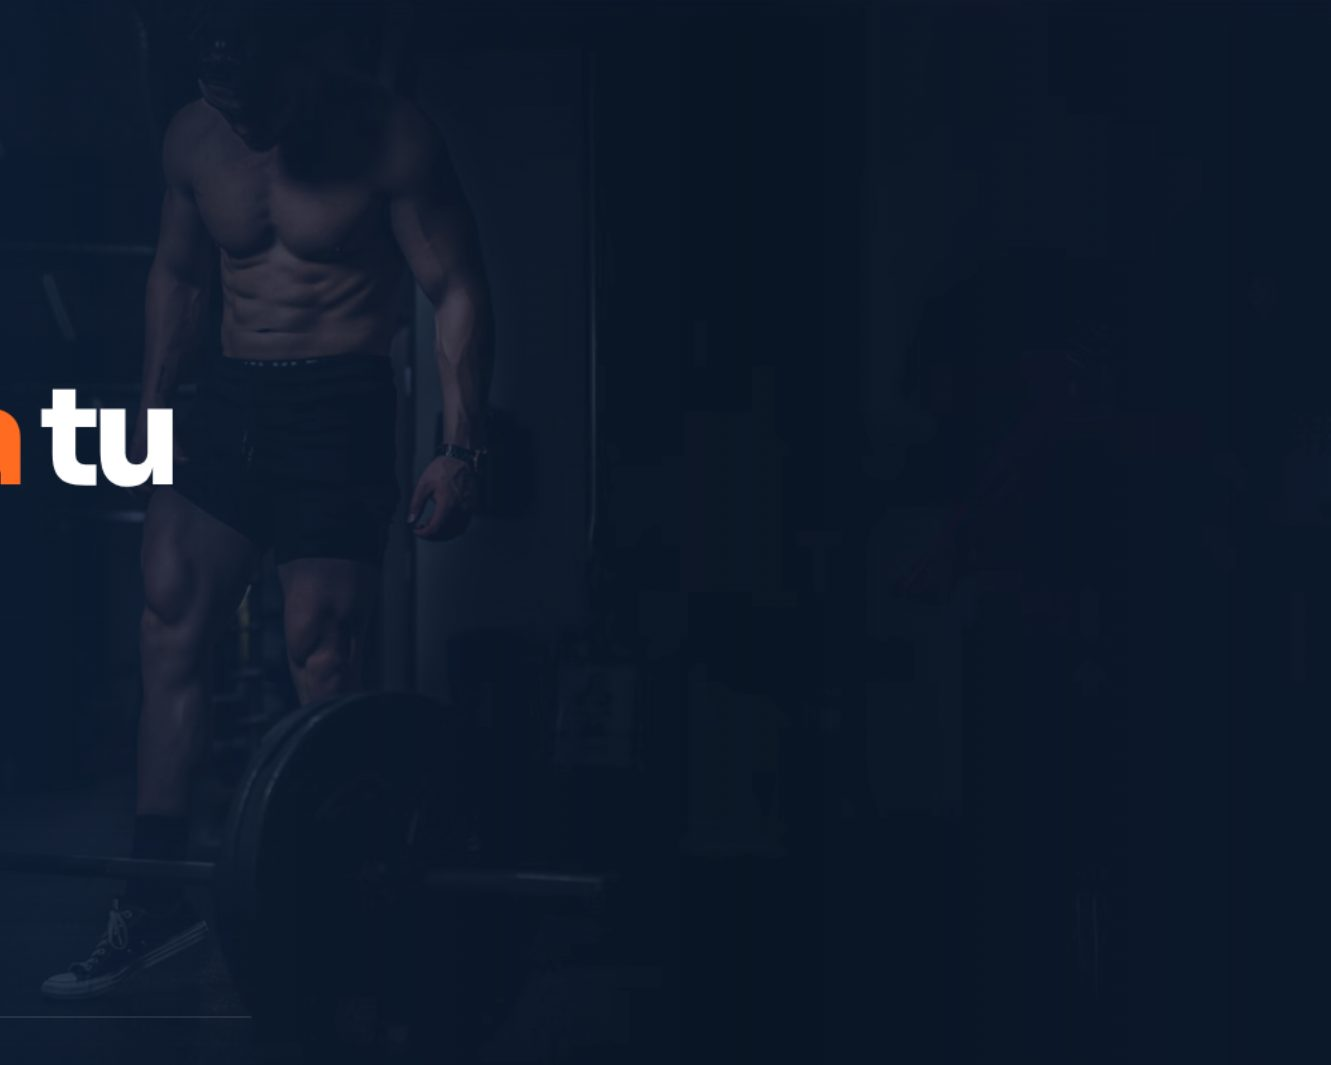
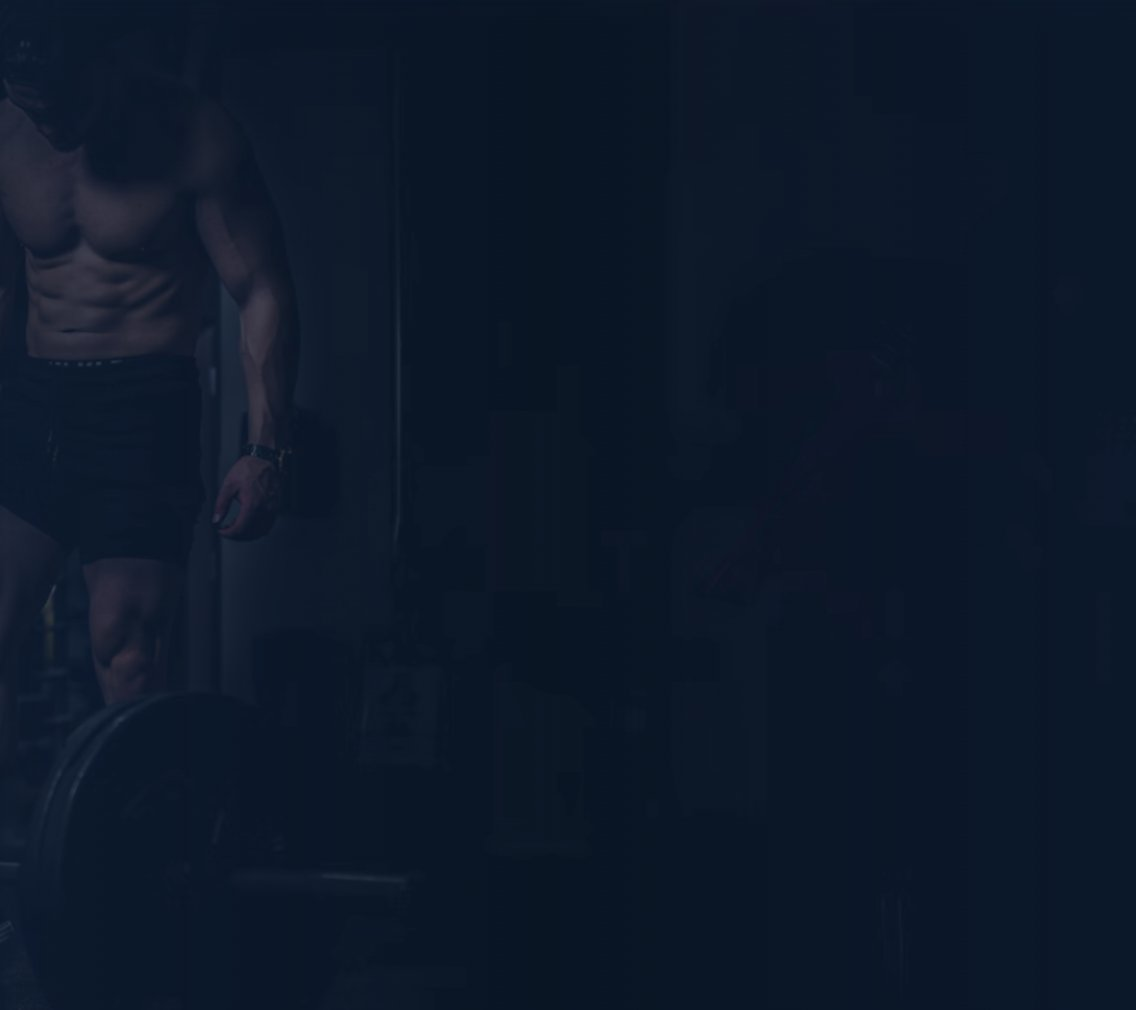
Portada: la foto del héroe se ve a la derecha como en el diseño (recorte sin texto)

diff --git a/src/pages/HomePage.tsx b/src/pages/HomePage.tsx
@@ -41,8 +41,8 @@ export default function HomePage() {
     <>
       {/* a. Portada */}
       <section className="relative overflow-hidden bg-navy-900 text-white">
-        <img src="/img/hero.jpg" alt="" className="absolute inset-0 h-full w-full object-cover opacity-35" />
-        <div className="absolute inset-0 bg-gradient-to-r from-navy-900 via-navy-900/85 to-navy-900/30" />
+        <img src="/img/hero.jpg" alt="" className="absolute inset-y-0 right-0 h-full w-full object-cover object-[70%_center] opacity-40 md:w-3/5 md:opacity-100" />
+        <div className="absolute inset-0 bg-gradient-to-r from-navy-900 via-navy-900/80 to-navy-900/10 md:via-navy-900/60" />
         <div className="relative mx-auto max-w-6xl px-4 pb-44 pt-14 md:pb-48 md:pt-24">
           <p className="inline-flex items-center gap-2 rounded-full border border-brand-blue/40 bg-brand-blue/10 px-4 py-2 text-xs font-extrabold uppercase tracking-[0.2em] text-sky-300">
             <MapPin className="h-4 w-4" aria-hidden="true" />
